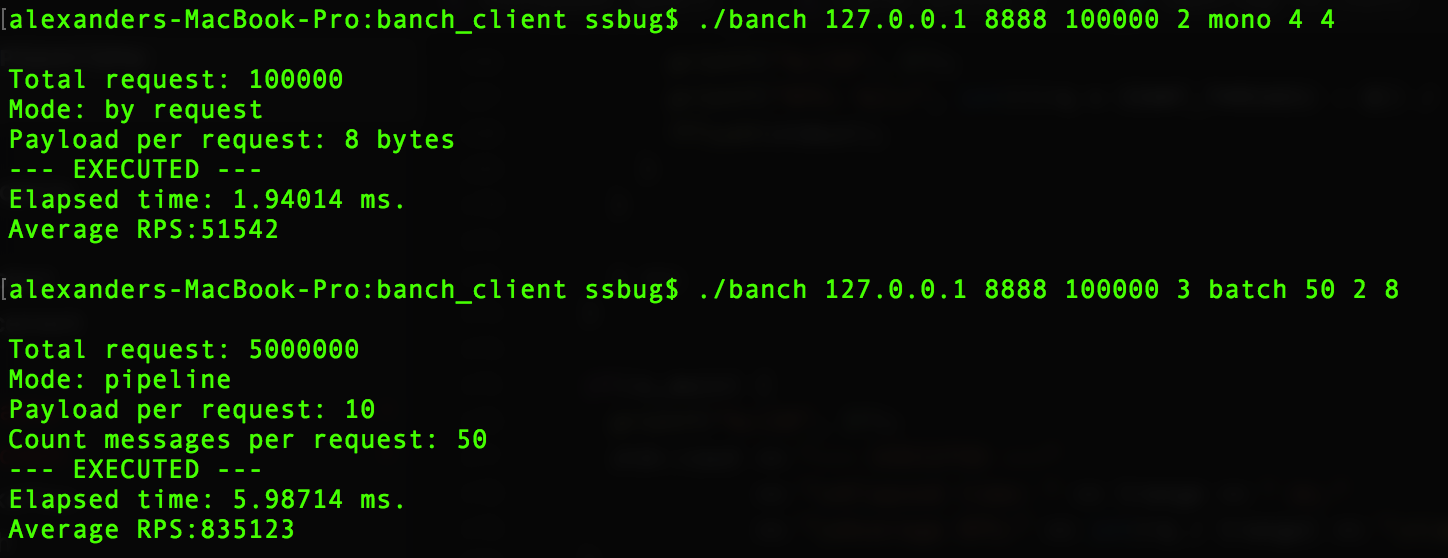
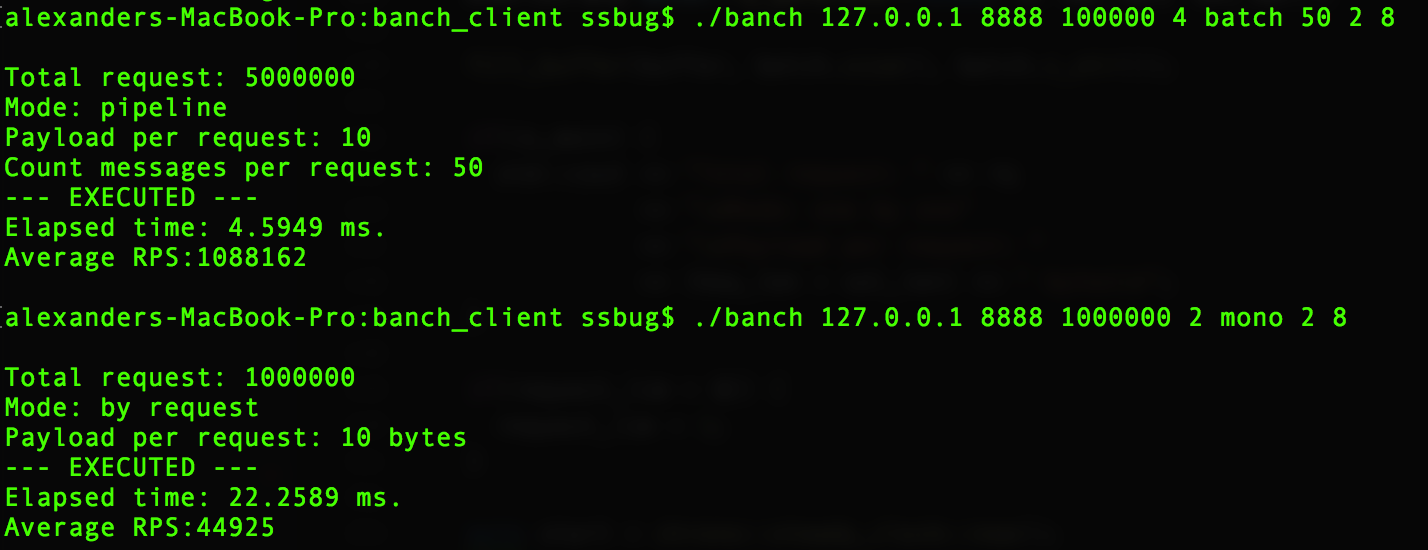
change img

Changed region(s): [[0.0, 0.1236, 0.986, 0.9891], [0.0, 0.0, 0.986, 0.0618]]

diff --git a/banch_client/client.cpp b/banch_client/client.cpp
@@ -85,7 +85,7 @@ void batch_test(int s, size_t rq, size_t len, size_t key_len, size_t val_len, bo
 
 
   if(is_main) {
-    std::cout << "Total request: " << (rq * len)
+    std::cout << "\nTotal request: " << (rq * len)
               << "\nMode: pipeline"
               << "\nPayload per request: " << (key_len + val_len)
               << "\nCount messages per request: " << len << "\n";
@@ -122,7 +122,7 @@ void batch_test(int s, size_t rq, size_t len, size_t key_len, size_t val_len, bo
     printf("%c[2K", 27);
     std::cout << "--- EXECUTED ---"
               << "\nElapsed time: " << trange << " ms."
-              << "\nAverage RPS:" << int((rq * len) / trange) << "\n";
+              << "\nAverage RPS:" << int((rq * len) / trange) << "\n\n";
   }
 }
 
@@ -140,7 +140,7 @@ const size_t SZ = key_len + val_len  + 5;
   fill_buffer(buffer, batch.size(), batch.c_str());
 
   if(is_main) {
-    std::cout << "Total request: " << rq
+    std::cout << "\nTotal request: " << rq
               << "\nMode: by request"
               << "\nPayload per request: "
               << (key_len + val_len) << " bytes\n";
@@ -176,7 +176,7 @@ const size_t SZ = key_len + val_len  + 5;
     printf("%c[2K", 27);
     std::cout << "--- EXECUTED ---"
               << "\nElapsed time: " << trange << " ms."
-              << "\nAverage RPS:" << int(rq / trange) << "\n";
+              << "\nAverage RPS:" << int(rq / trange) << "\n\n";
   }
 }
 
